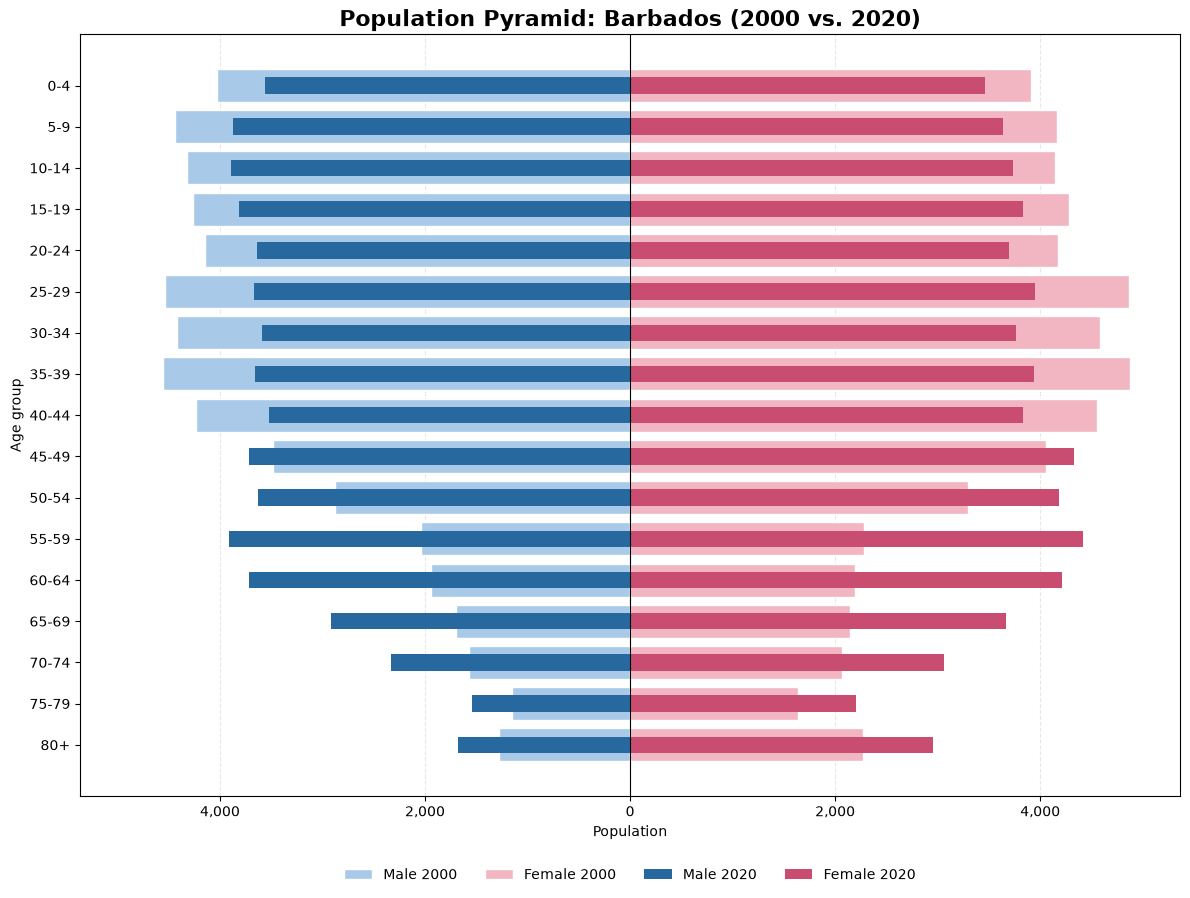
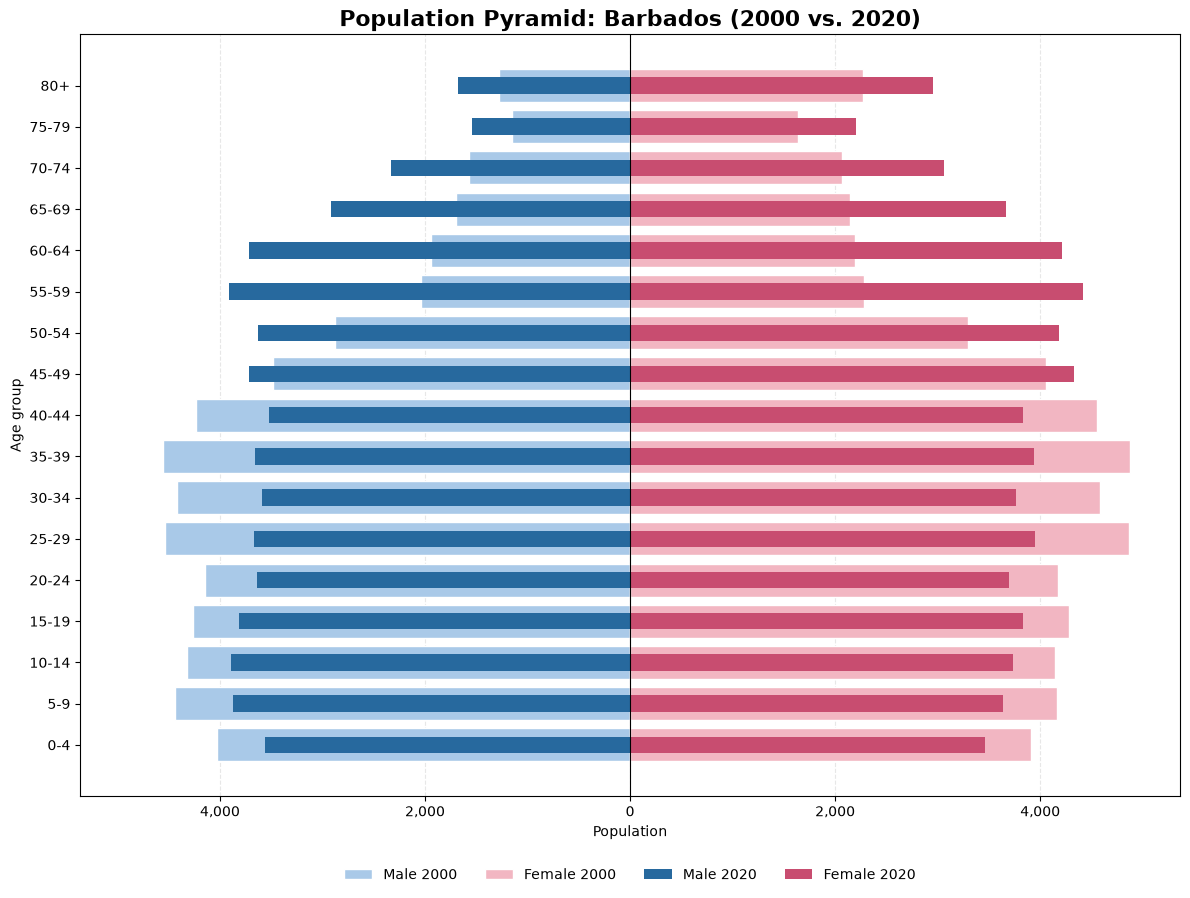
deploy: bbee74aa8e1f3511f32afdf7bf5ab74229460c16

diff --git a/pages/analysis/gudd_demographic_changes.html b/pages/analysis/gudd_demographic_changes.html
@@ -604,7 +604,7 @@ gtag('config', 'G-45WWDMVLWW', { 'anonymize_ip': true});
 <p>Now that our data is prepared we can create a function to generate age-sex pyramids by inputting the country and years of interest as required parameters.</p>
 <p>These visualizations will help us understand how the population structure has changed over time, providing insights into demographic trends and potential implications for urban planning and policy-making.</p>
 <p>To visualize the age-sex pyramids, we will use the <code>matplotlib</code> and <code>numpy</code> libraries to create bar charts that represent the population counts for each age-sex cohort. The x-axis will represent the population counts, while the y-axis will represent the age groups. We will create separate bars for males and females, allowing us to compare the population distribution between the two sexes.</p>
-<div id="63230102" class="cell" data-execution_count="15">
+<div id="63230102" class="cell" data-execution_count="88">
 <div class="code-copy-outer-scaffold"><div class="sourceCode cell-code" id="cb4"><pre class="sourceCode python code-with-copy"><code class="sourceCode python"><span id="cb4-1"><a href="#cb4-1" aria-hidden="true" tabindex="-1"></a></span>
 <span id="cb4-2"><a href="#cb4-2" aria-hidden="true" tabindex="-1"></a><span class="im">import</span> matplotlib.pyplot <span class="im">as</span> plt</span>
 <span id="cb4-3"><a href="#cb4-3" aria-hidden="true" tabindex="-1"></a><span class="im">import</span> numpy <span class="im">as</span> np</span>
@@ -736,14 +736,16 @@ gtag('config', 'G-45WWDMVLWW', { 'anonymize_ip': true});
 <span id="cb4-129"><a href="#cb4-129" aria-hidden="true" tabindex="-1"></a>        ncol<span class="op">=</span><span class="dv">4</span>,</span>
 <span id="cb4-130"><a href="#cb4-130" aria-hidden="true" tabindex="-1"></a>        frameon<span class="op">=</span><span class="va">False</span></span>
 <span id="cb4-131"><a href="#cb4-131" aria-hidden="true" tabindex="-1"></a>    )</span>
-<span id="cb4-132"><a href="#cb4-132" aria-hidden="true" tabindex="-1"></a></span>
-<span id="cb4-133"><a href="#cb4-133" aria-hidden="true" tabindex="-1"></a>    plt.tight_layout()</span>
-<span id="cb4-134"><a href="#cb4-134" aria-hidden="true" tabindex="-1"></a>    plt.show()</span>
-<span id="cb4-135"><a href="#cb4-135" aria-hidden="true" tabindex="-1"></a></span>
-<span id="cb4-136"><a href="#cb4-136" aria-hidden="true" tabindex="-1"></a></span></code></pre></div><button title="Copy to Clipboard" class="code-copy-button"><i class="bi"></i></button></div>
+<span id="cb4-132"><a href="#cb4-132" aria-hidden="true" tabindex="-1"></a>    </span>
+<span id="cb4-133"><a href="#cb4-133" aria-hidden="true" tabindex="-1"></a>    ax.invert_yaxis()</span>
+<span id="cb4-134"><a href="#cb4-134" aria-hidden="true" tabindex="-1"></a></span>
+<span id="cb4-135"><a href="#cb4-135" aria-hidden="true" tabindex="-1"></a>    plt.tight_layout()</span>
+<span id="cb4-136"><a href="#cb4-136" aria-hidden="true" tabindex="-1"></a>    plt.show()</span>
+<span id="cb4-137"><a href="#cb4-137" aria-hidden="true" tabindex="-1"></a></span>
+<span id="cb4-138"><a href="#cb4-138" aria-hidden="true" tabindex="-1"></a></span></code></pre></div><button title="Copy to Clipboard" class="code-copy-button"><i class="bi"></i></button></div>
 </div>
 <p>Now we can use this function to create age-sex pyramids for the years 2000 and 2020 allowing us to select a country of interest. The function will take the DataFrame, country name, and years as input parameters, and will generate the age-sex pyramids for the specified years.</p>
-<div id="67988822" class="cell" data-execution_count="16">
+<div id="67988822" class="cell" data-execution_count="94">
 <div class="code-copy-outer-scaffold"><div class="sourceCode cell-code" id="cb5"><pre class="sourceCode python code-with-copy"><code class="sourceCode python"><span id="cb5-1"><a href="#cb5-1" aria-hidden="true" tabindex="-1"></a>plot_population_pyramid(</span>
 <span id="cb5-2"><a href="#cb5-2" aria-hidden="true" tabindex="-1"></a>    gudd_all_data,</span>
 <span id="cb5-3"><a href="#cb5-3" aria-hidden="true" tabindex="-1"></a>    country<span class="op">=</span><span class="st">'Barbados'</span>,</span>
